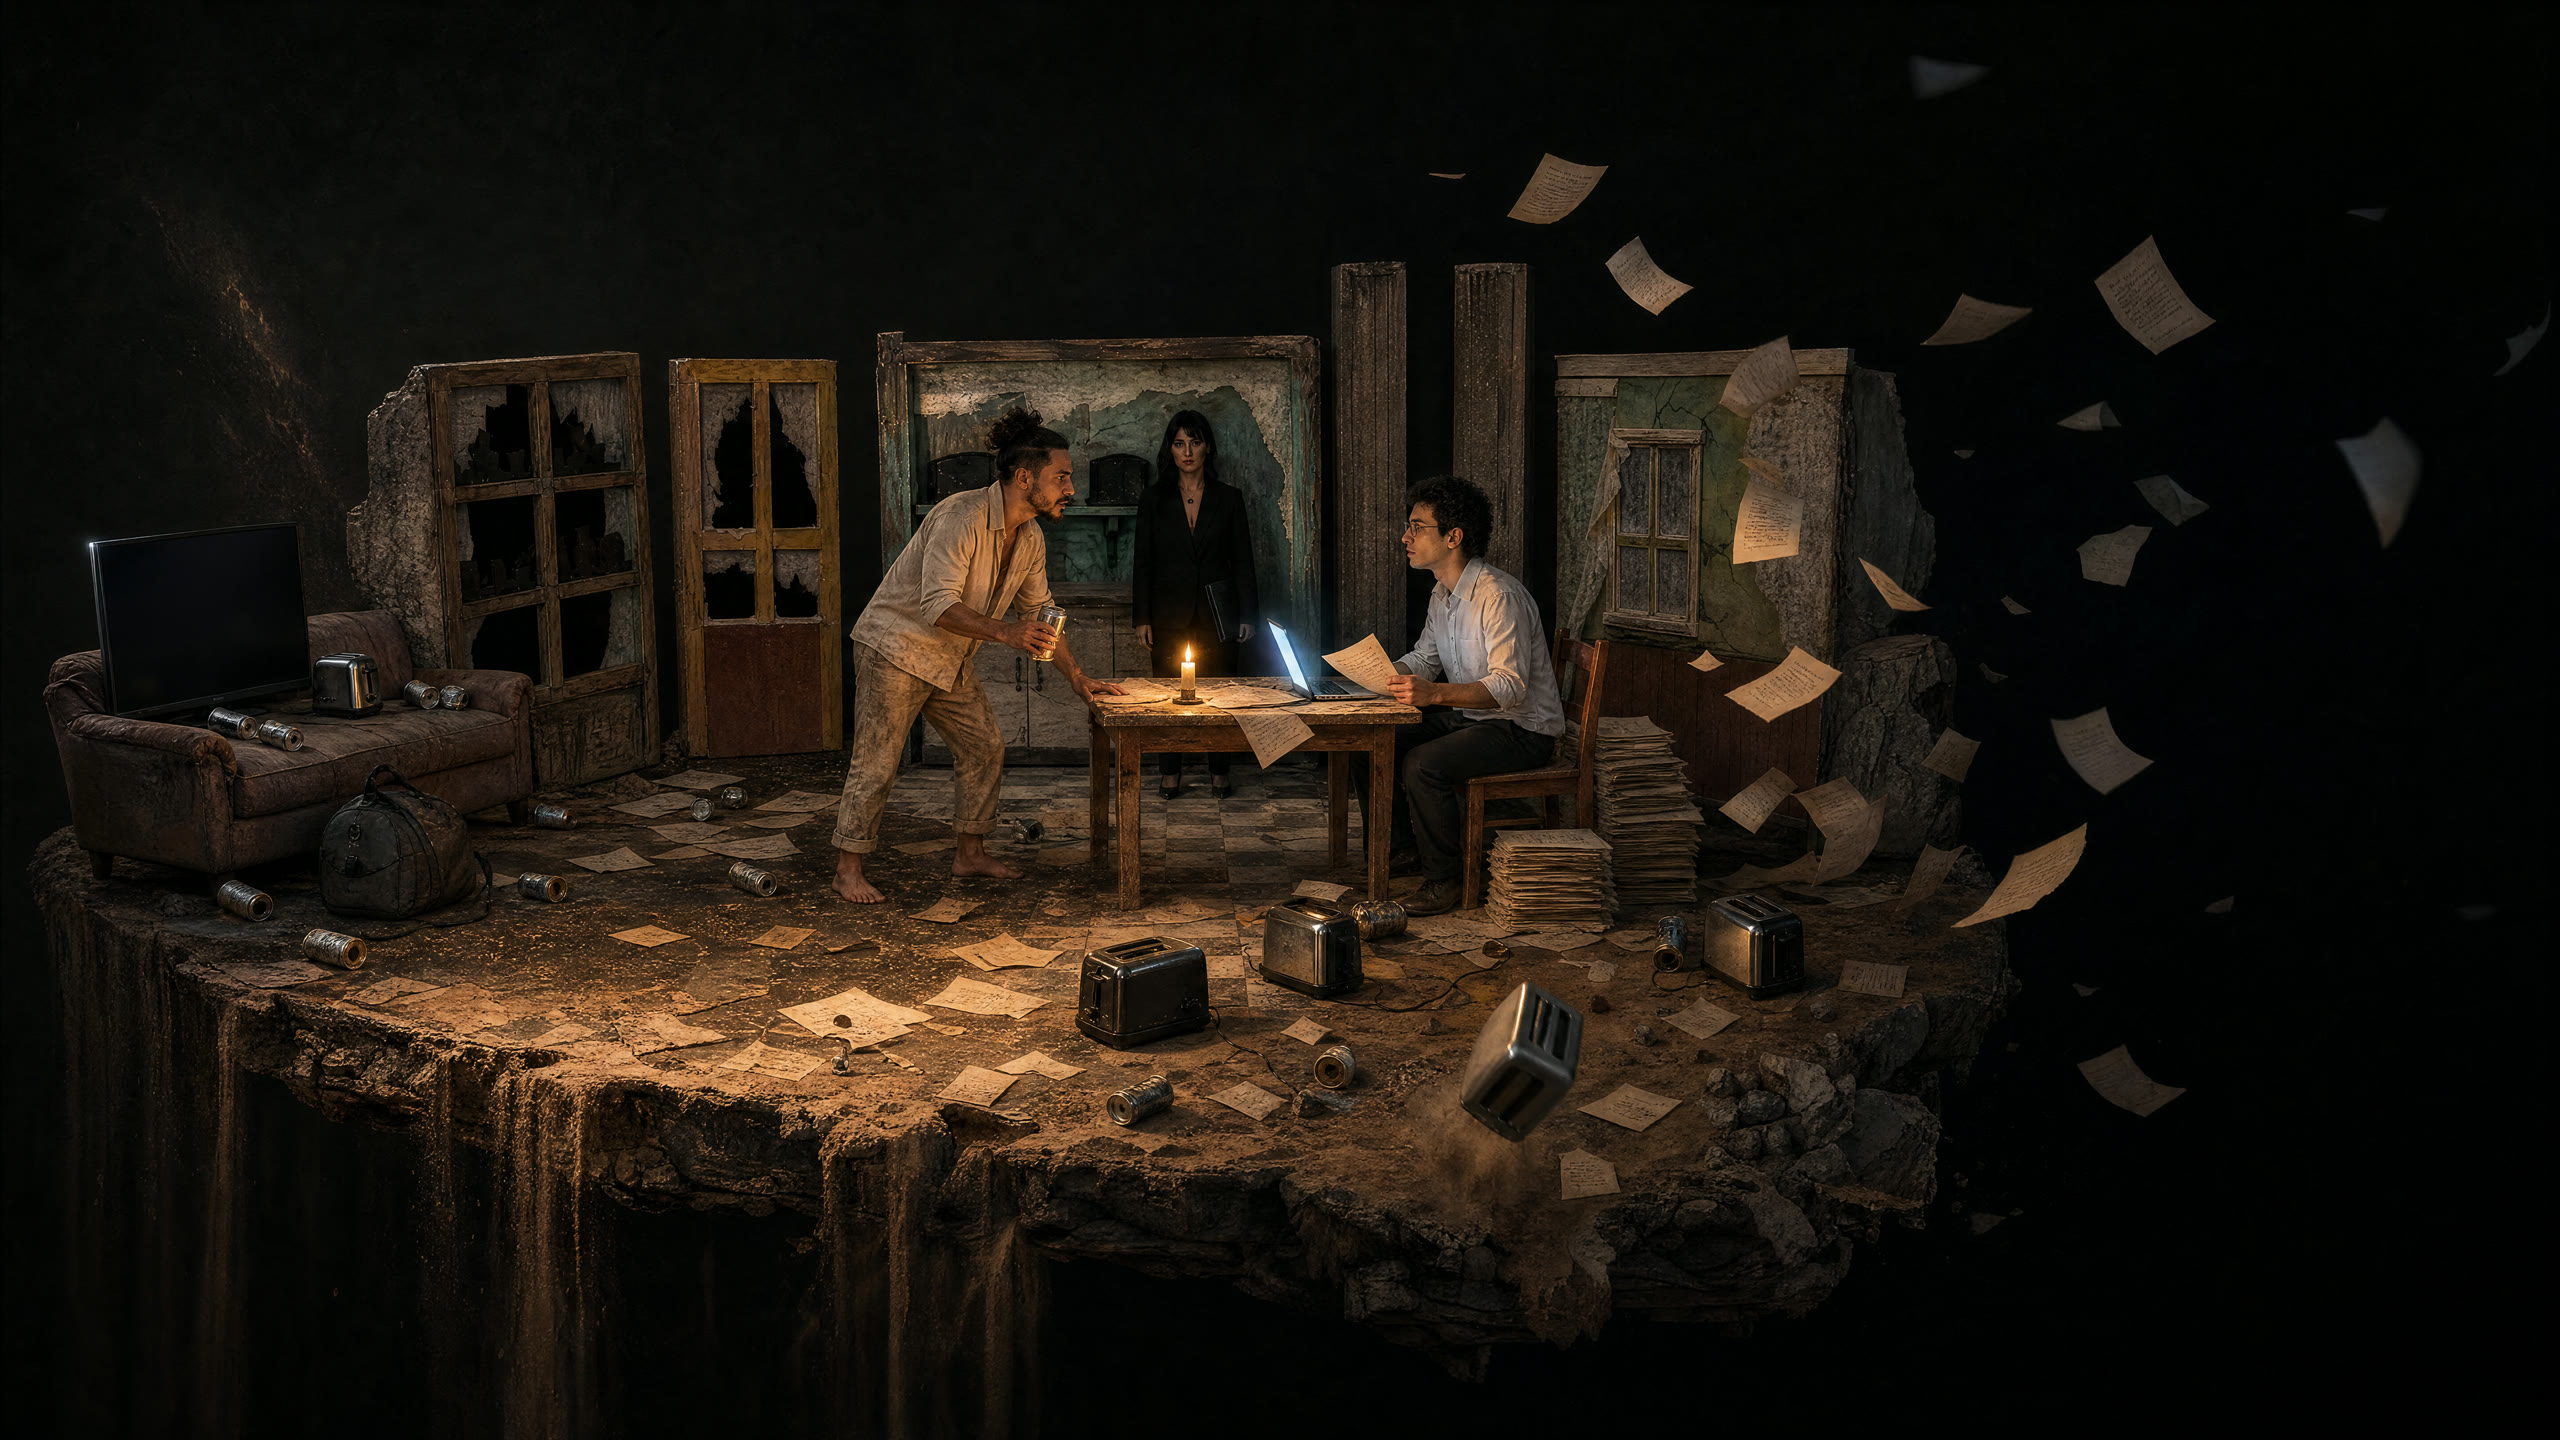
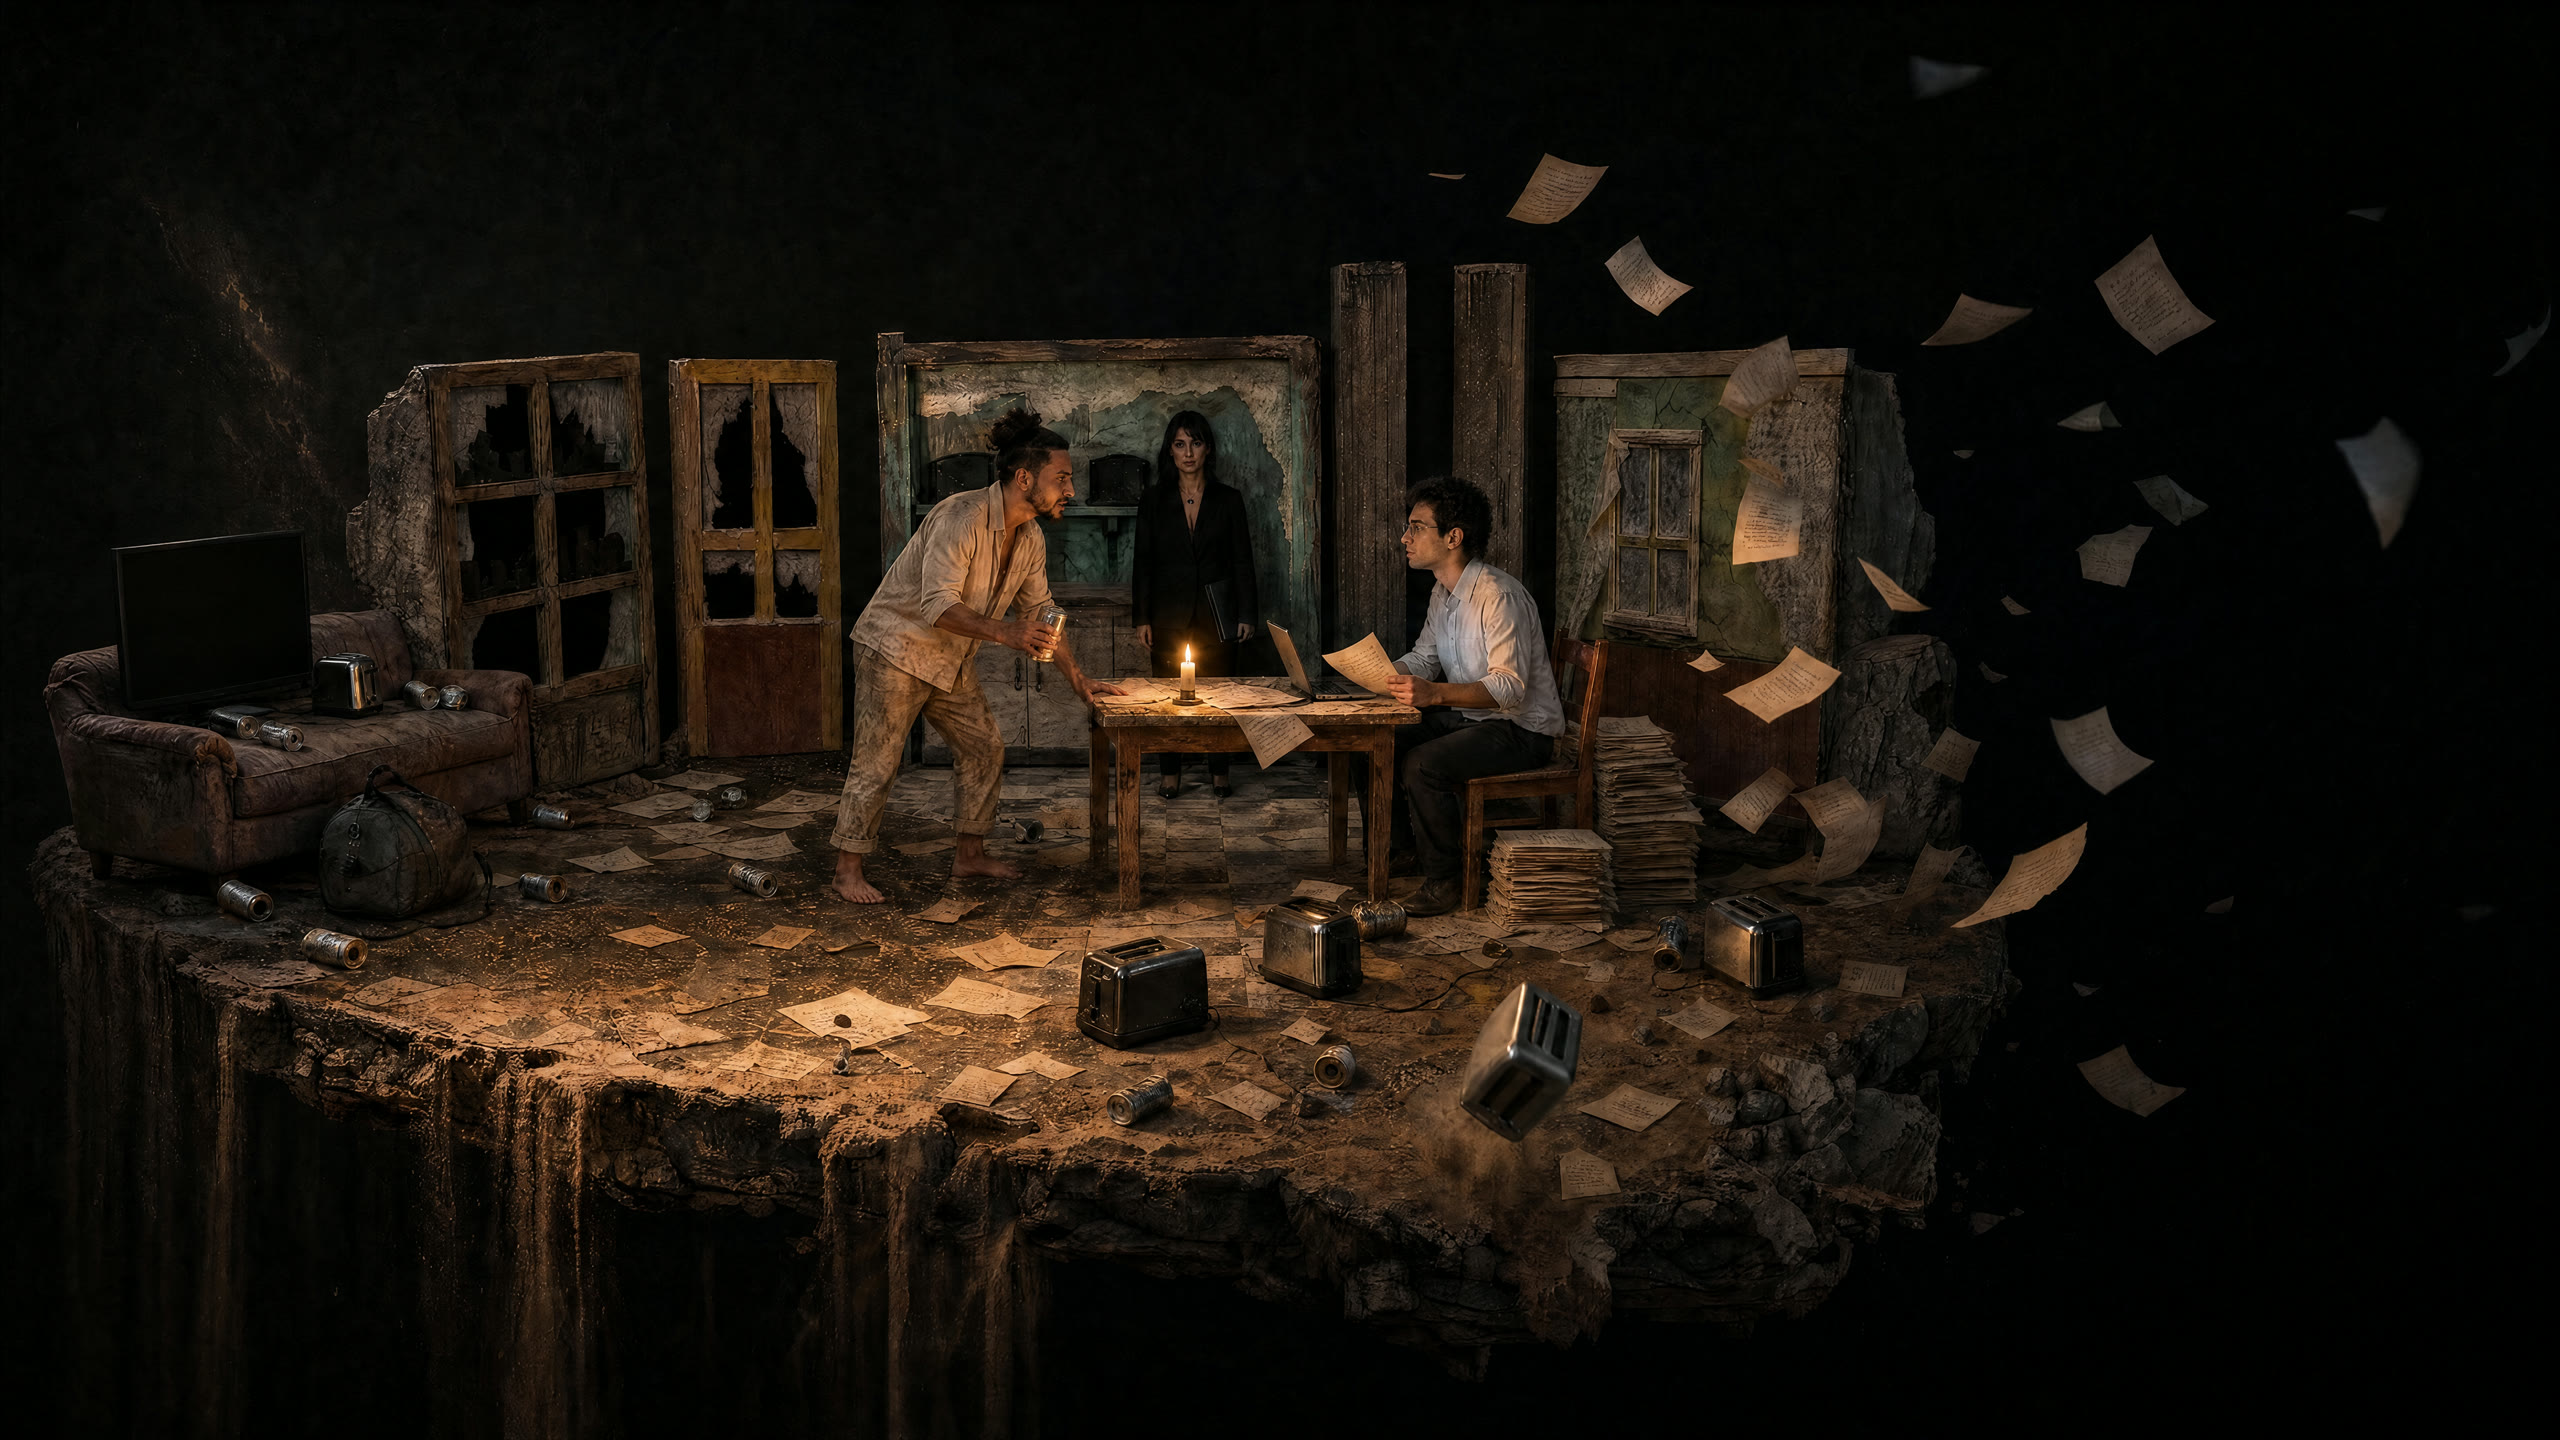
Add files via upload

diff --git a/index.html b/index.html
@@ -14,7 +14,9 @@
 <meta property="og:locale" content="ar_AR">
 <meta name="twitter:card" content="summary_large_image">
 <link rel="icon" href="images/logo.png">
-<link rel="preload" as="image" href="images/suudan-hero.webp">
+<!-- ?v=7 = كسر الكاش. الصورة اتبدّلت 2026-08-09 والمتصفحات بتضل تعرض القديمة بدونه.
+     أي تبديل جاي للهيرو: زيدي الرقم بالأربع أماكن (هون + المصدرين + img). -->
+<link rel="preload" as="image" href="images/suudan-hero.webp?v=7">
 <link rel="preconnect" href="https://fonts.googleapis.com">
 <link rel="preconnect" href="https://fonts.gstatic.com" crossorigin>
 <link href="https://fonts.googleapis.com/css2?family=Aref+Ruqaa:wght@400;700&family=Amiri:ital,wght@0,400;0,700;1,400&family=IBM+Plex+Sans+Arabic:wght@400;500;700&family=IBM+Plex+Mono:wght@500;700&display=swap" rel="stylesheet">
@@ -659,9 +661,9 @@ footer{border-top:1px solid var(--hair);padding-block:42px;position:relative;z-i
 <!-- ═══════ هيرو ═══════ -->
 <div class="hero">
   <picture>
-    <source media="(max-width:640px)" srcset="images/suudan-hero-sm.webp" type="image/webp">
-    <source srcset="images/suudan-hero.webp" type="image/webp">
-    <img class="bg" src="images/suudan-hero.jpg" alt="مشهد من مسرحية صعودًا للهاوية — آدم واقف بيتحدى نديم القاعد عالطاولة، بينهن شمعة وأوراق سيناريو وعلب بيرة، داخل مطبخ متهدّم معلّق بالعتمة">
+    <source media="(max-width:640px)" srcset="images/suudan-hero-sm.webp?v=7" type="image/webp">
+    <source srcset="images/suudan-hero.webp?v=7" type="image/webp">
+    <img class="bg" src="images/suudan-hero.jpg?v=7" alt="مشهد من مسرحية صعودًا للهاوية — آدم واقف بيتحدى نديم القاعد عالطاولة، بينهن شمعة وأوراق سيناريو وعلب بيرة، داخل مطبخ متهدّم معلّق بالعتمة">
   </picture>
   <div class="veil"></div>
   <div class="candlelight" aria-hidden="true"></div>
